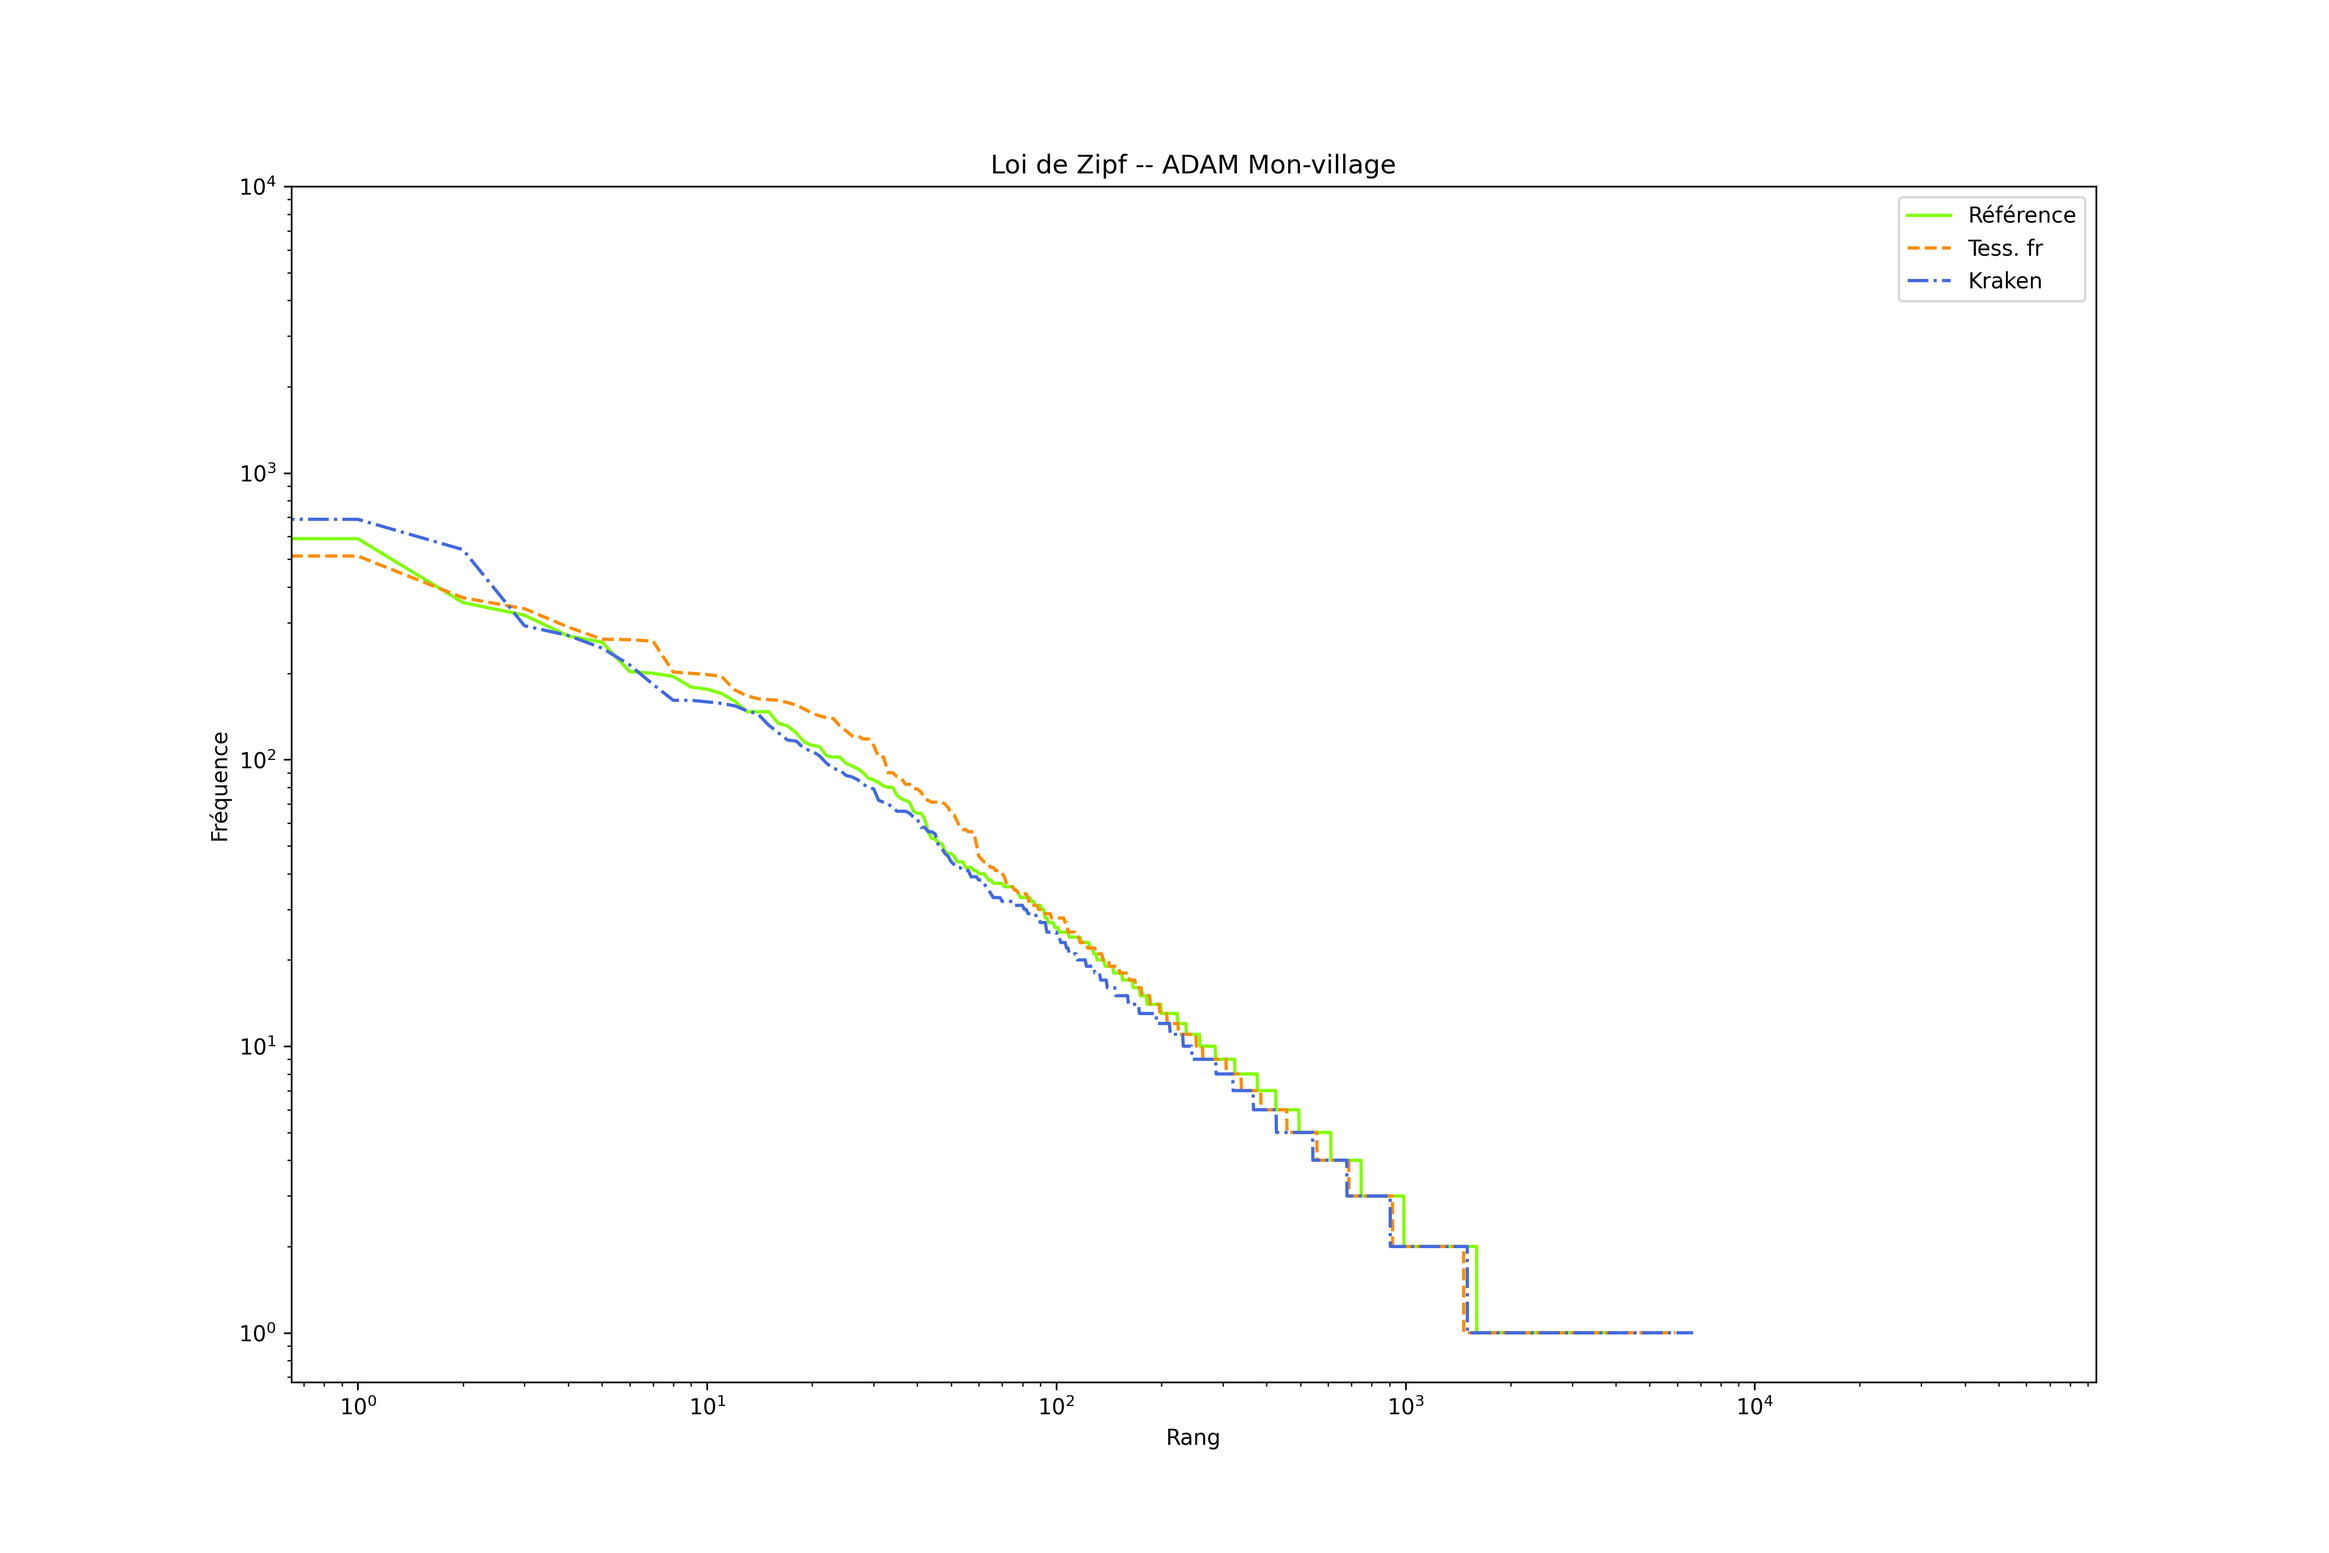
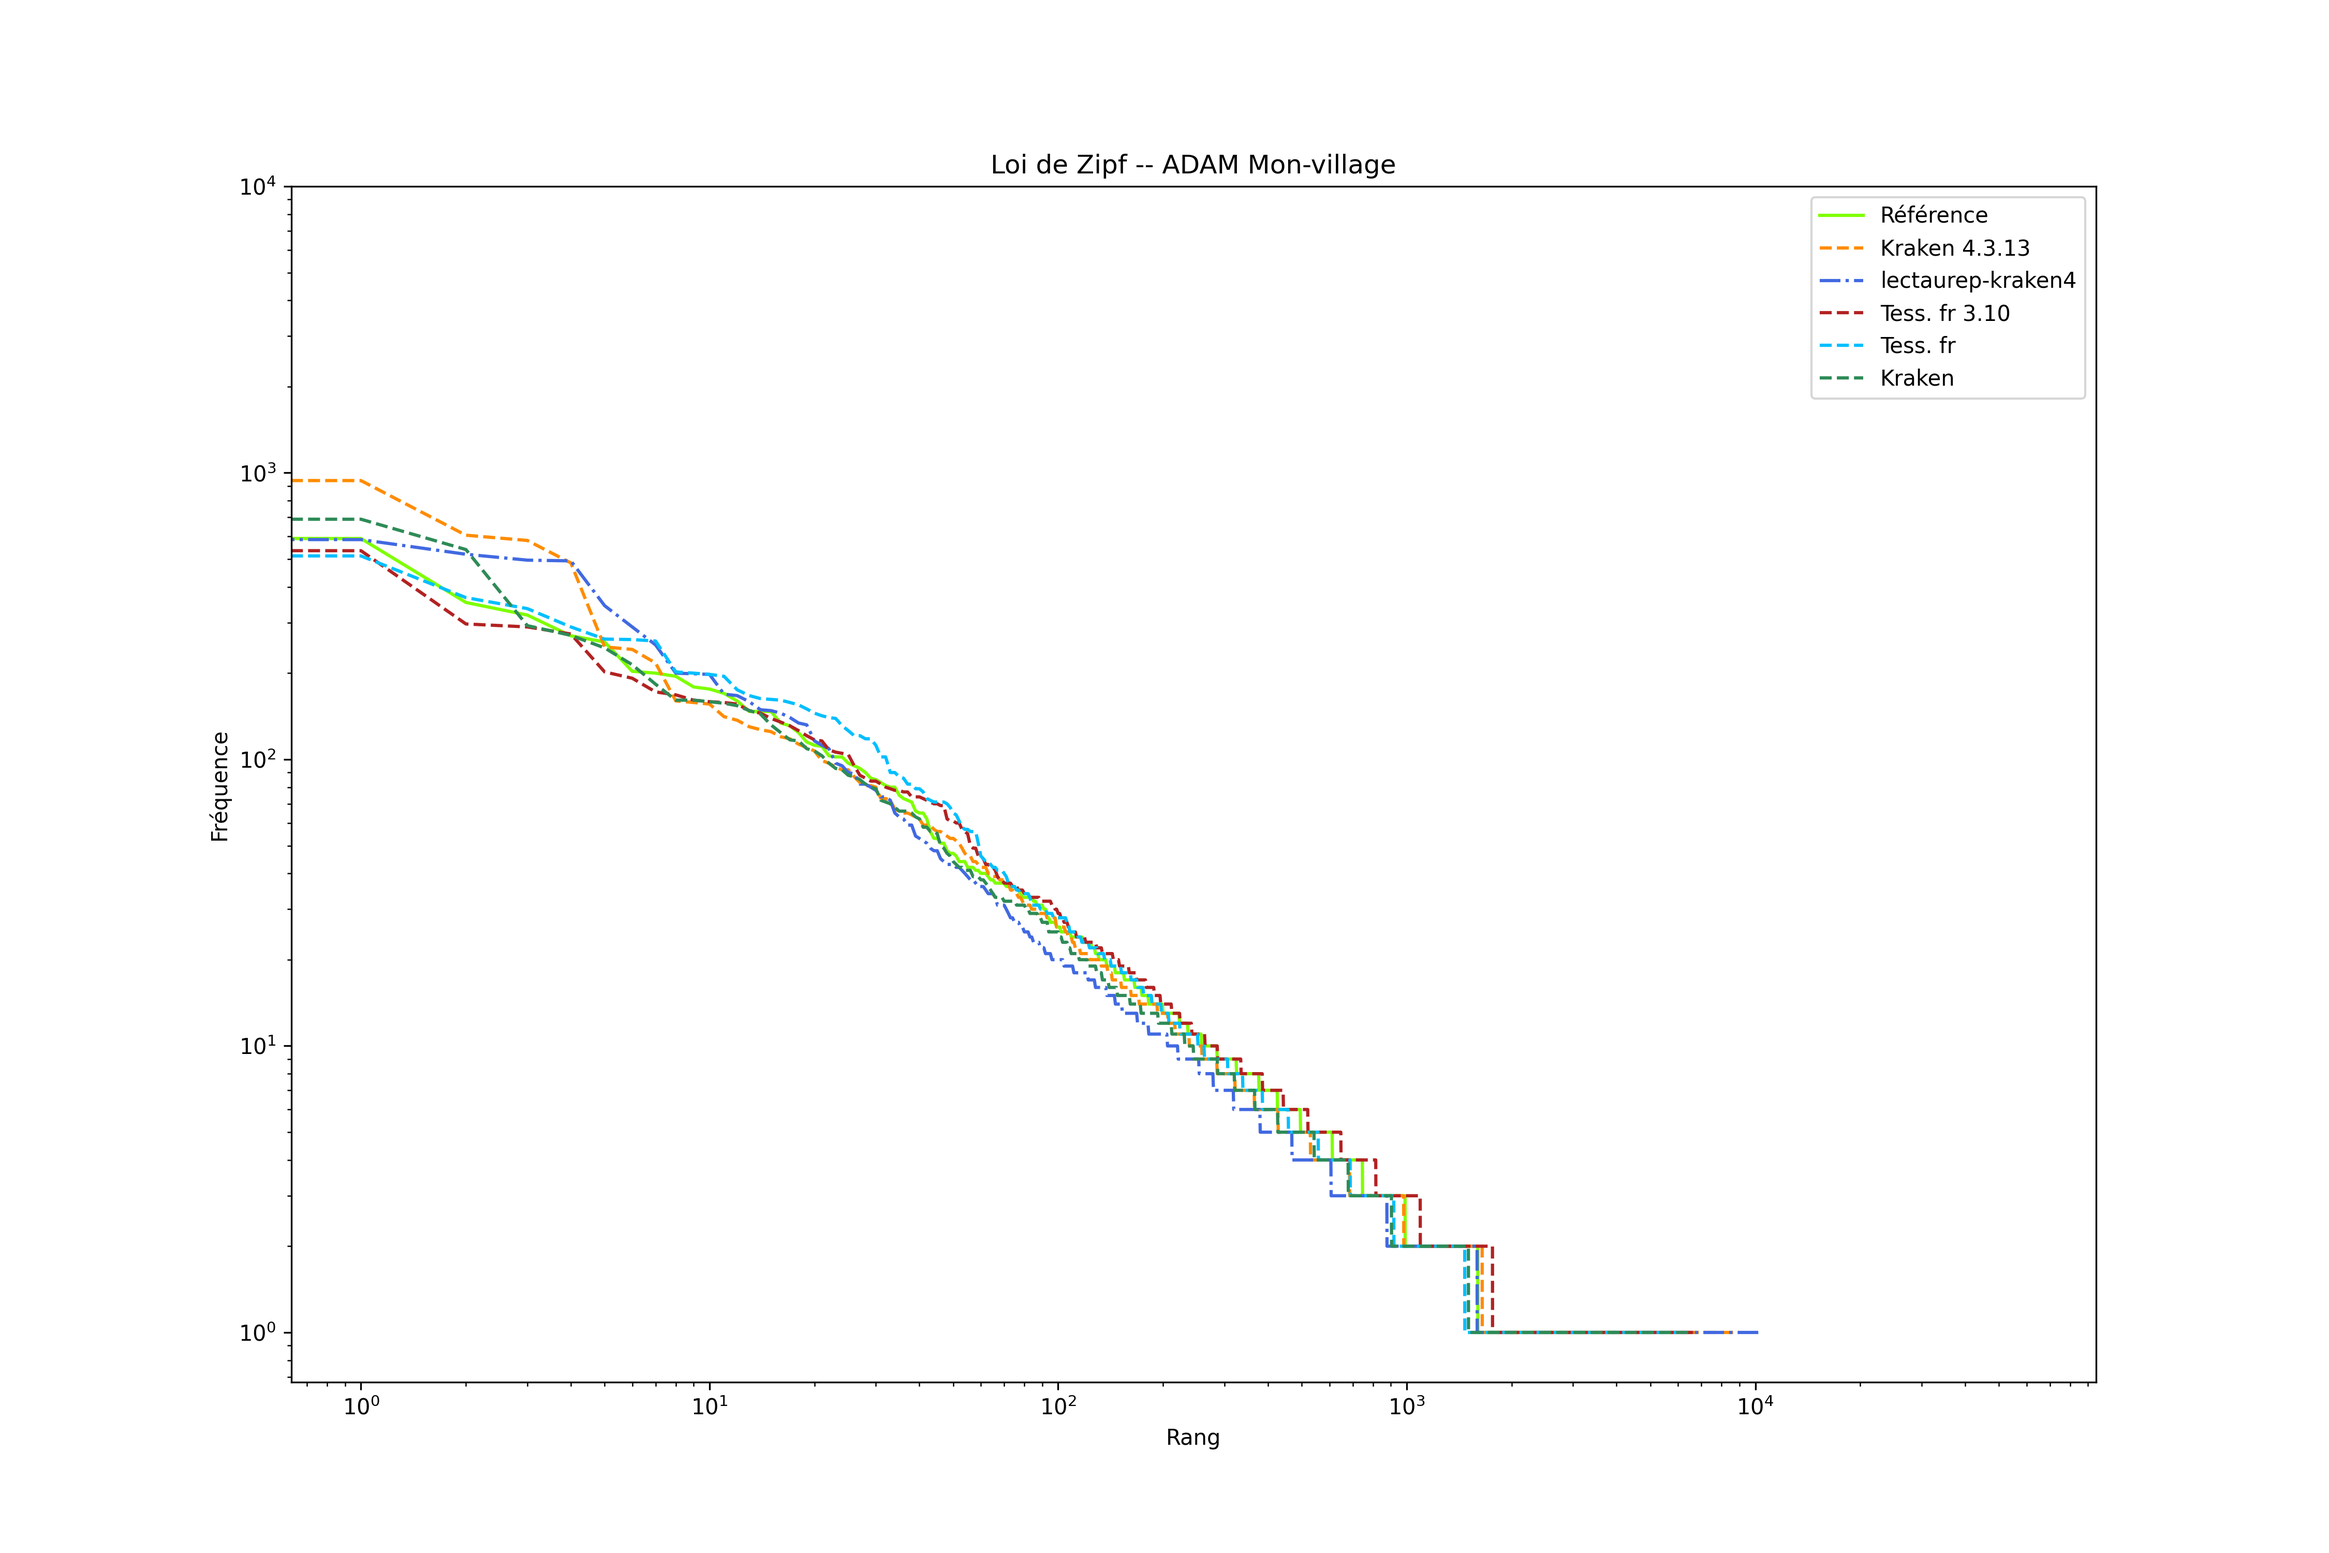
prog ZIPF

diff --git a/prog/ZIPF_3D.py b/prog/ZIPF_3D.py
@@ -1,0 +1,265 @@
+# from nltk.corpus import brown # si besoin dans jupyter pip install nltk (déjà installé sur ma machine)
+from functools import reduce
+import matplotlib.pyplot as pyplot
+# import re # expression régulière
+import json
+import glob
+import spacy
+import re
+import pandas as pd
+from IPython.display import display
+import seaborn as sns
+import scipy.stats as stats
+from nltk.corpus import stopwords
+from renommage import *
+
+
+def lire_fichier(chemin):
+    with open(chemin) as json_data:
+        EN = json.load(json_data)
+
+        return EN
+
+
+def lire_fichier_txt(chemin):
+    f = open(chemin, encoding='utf−8')
+    chaine = f.read()
+    f.close()
+    return chaine
+
+
+def text_2_tok(texte):
+    liste_tok = []
+    nlp = spacy.load("fr_core_news_sm")
+    nlp.max_length = 5000000
+    doc = nlp(texte)
+    for token in doc:
+        liste_tok.append(token.text)
+
+    #        print(token.text)
+
+    return liste_tok
+
+
+def texte_to_dict(texte):
+    texte_dict = {}
+
+    for token in texte:
+        if token in texte_dict:
+            texte_dict[token] += 1
+        else:
+            texte_dict[token] = 1
+
+    return texte_dict
+
+
+def dict_to_list(texte_dict):
+    texte_list = []
+
+    for mot in texte_dict.keys():
+        texte_list.append([texte_dict[mot], mot])
+
+    texte_list.sort(reverse=True)
+    return texte_list
+
+
+def afficher_n(texte_list, n):
+    cumul = 0
+    print("rang\tmot\tfrequence\tfrequence(Zipf)")
+    print("-" * 50)
+    for _ in range(n):
+        cumul += texte_list[_][0]
+        print("{}\t{}\t{}\t\t{:.0f}".format(_ + 1, texte_list[_][1], texte_list[_][0], texte_list[0][0] / (_ + 1)))
+
+    total = reduce(lambda x, y: x + y, [_[0] for _ in texte_list])
+    prop = cumul / total * 100
+
+    print("-" * 50)
+    print("Ces {} mots représentent le {:0.2f}% du corpus".format(n, prop))
+
+
+# def plot_zipf(texte_list, ocr, config_name, liste_ren_ref, log=False):
+#     pyplot.rcParams['figure.figsize'] = [15, 10]
+#
+#     y = [_[0] for _ in texte_list]
+#     y_ = [_[0] for _ in ocr[0]]
+#
+#     pyplot.plot(y, "-", color='chartreuse', label="Référence")
+#     pyplot.plot(y_, "--", color='darkorange', label=config_name[0])
+#     # pyplot.plot(y1, "-.", color='royalblue', label=ocr_name[1])
+#
+#     if log:
+#         pyplot.yscale("log")
+#         pyplot.xscale("log")
+#     #        pyplot.axis([0,10^2,0,10^2])
+#     pyplot.ylim(0, 10000)
+#     pyplot.xlim(0, 95000)
+#
+#     #    pyplot.legend()
+#     #    pyplot.title("Loi de Zipf (Brown Corpus)")
+#     pyplot.xlabel("Rang")
+#     pyplot.ylabel("Fréquence")
+#
+#
+#    # pyplot.show()
+def plot_zipf(log=True):
+    pyplot.rcParams['figure.figsize'] = [15, 10]
+
+    if log:
+        # pyplot.yscale("log")
+        pyplot.xscale("log")
+    #        pyplot.axis([0,10^2,0,10^2])
+    pyplot.ylim(0, 50)
+    pyplot.xlim(0, 100)
+
+    #    pyplot.legend()
+    #    pyplot.title("Loi de Zipf (Brown Corpus)")
+    pyplot.xlabel("Rang")
+    pyplot.ylabel("Fréquence")
+def nom_fichier(chemin_fichier):
+    # NOM_FICHIER POUR LES TXT
+    nom_fichier = chemin_fichier.split("/")
+    nom_fichier = nom_fichier[-1].split(".")
+    nom_fichier = nom_fichier[0]
+    # delete_PP = nom_fichier.split("_")
+    # for i in delete_PP:
+    #     if delete_PP[-1]=="PP":
+    #         nom_fichier="_".join([delete_PP[0],delete_PP[1],"Ref"])
+    return (nom_fichier)
+
+
+def nom_fichier_REN(chemin_fichier):
+    # NOM_FICHIER POUR LES EN
+    nom_fichier = chemin_fichier.split("/")
+    nom_fichier = nom_fichier[6].split(".")
+    delete_txt = nom_fichier[1].split("_")
+    delete_txt = "_".join([delete_txt[1], delete_txt[2]])
+    delete_json = nom_fichier[2].split("-")
+    delete_json = delete_json[1]
+    delete_PP = nom_fichier[0].split("_")
+    nom_fichier = "_".join([nom_fichier[0], delete_txt, delete_json])
+    for i in delete_PP:
+        if delete_PP[-1] == "PP":
+
+            nom_fichier = "_".join([delete_PP[0], delete_PP[1], "Ref", delete_txt, delete_json])
+
+        else:
+            nom_fichier = "_".join([delete_PP[0], delete_PP[1], delete_PP[2], delete_txt, delete_json])
+    return (nom_fichier)
+
+
+def stocker(name_file):
+    #    pyplot.rcParams.update({'font.size': 16})
+    # titre_plt = name_file.split("/")
+    # titre_plt = titre_plt[3]
+    # titre_plt = titre_plt.split("_")
+    # titre_plt = " ".join(titre_plt)
+    # delete_png = titre_plt.split(".")
+    # titre_plt = " ".join([delete_png[0]])
+    # pyplot.legend()
+    # pyplot.title("Loi de Zipf -- %s" % name_file)
+    pyplot.savefig(name_file, dpi=300)
+    pyplot.clf()
+    return name_file
+
+
+def filtre_stop(contenu, language):
+    french_stopwords = set(stopwords.words('french'))
+    filtre_stopfr = lambda text: [token for token in text if token.lower() not in french_stopwords]
+    return filtre_stopfr
+
+# def quantile_plot(x, **kwargs):
+#     quantiles, xr = stats.probplot(x, fit=False)
+#     pyplot.scatter(xr, quantiles, **kwargs)
+def qqplot(x, y, **kwargs):
+    # _, xr = stats.probplot(x, fit=False)
+    # _, yr = stats.probplot(y, fit=False)
+    pyplot.plot(x, y, **kwargs)
+
+# MAIN
+path_corpora = "../small-ELTeC-fra-2021-2024_REN/"
+# dans "corpora" un subcorpus = toutes les versions 'un texte'
+
+
+for subcorpus in sorted(glob.glob("%sAIMARD_TRAPPEURS/" % path_corpora)):
+    # print(subcorpus)
+    data_list = []
+    liste_version = []
+    lst_nom_rens = []
+    liste_data = []
+    liste_freq = []
+    liste_indice = []
+    # k=0
+#
+#     ## _______________ZIPF sur EN.json REF et OCRs
+    for subpath in sorted(glob.glob("%s*REF/NER/*liste.json" % subcorpus)):
+        k = 0
+        print("subpath", subpath)
+        nomfichier_ref = subpath.split("/")[-1]
+        # print(nomfichier_ref)
+        nom_ren_ref = (" ").join(nomfichier_ref.split("_")[-1].split("-")[:2])
+        entite = lire_fichier(subpath)
+        # print(entite)
+        texte_dict = texte_to_dict(entite)
+        # print(texte_dict)
+        text_liste = dict_to_list(texte_dict)
+        for i in text_liste :
+            # print("---------",i)
+            liste_data.append(i[-1])
+            liste_freq.append(i[0])
+            liste_version.append("Référence")
+            lst_nom_rens.append(nom_ren_ref)
+            liste_indice.append(k)
+            k+=1
+    #
+    for subpath in sorted(glob.glob("%s*OCR/*/NER/*liste.json" % subcorpus)):
+        k = 0
+        print("subpath", subpath)
+        entite_ocr = lire_fichier(subpath)
+        nomfichier = subpath.split("/")[-1]
+        # print(nomfichier)
+        output_name = "_".join(nomfichier.split(".")[0].split("_")[:2])
+        print(output_name)
+        nom_ocr = nomfichier.split("_")[2].split(".")[0]
+        nom_ocr = nommage(nom_ocr)
+        nom_ren = (" ").join(nomfichier.split("_")[-1].split("-")[:2])
+        # print(nom_ren)
+        texte_dict_ocr = texte_to_dict(entite_ocr)
+        # print(texte_dict_ocr)
+        texte_list_ocr = dict_to_list(texte_dict_ocr)
+        # print(texte_list_ocr)
+        for i in texte_list_ocr :
+            # print("---------",i)
+            liste_data.append(i[-1])
+            liste_freq.append(i[0])
+            liste_version.append(nom_ocr)
+            lst_nom_rens.append(nom_ren)
+            liste_indice.append(k)
+            k+=1
+        # print(liste_freq)
+        # print(liste_indice)
+        # print(len(lst_nom_rens))
+        # print(len(liste_version))
+        # print(len(liste_freq))
+        # print(len(liste_data))
+        # print(len(liste_indice))
+        tableau = {}
+        tableau["OCR"] = liste_version
+        tableau["REN"] = lst_nom_rens
+        tableau["Data"] = liste_data
+        tableau["frequence"] = liste_freq
+        tableau["rang"] = liste_indice
+        data_tab = pd.DataFrame(tableau)
+        # print(data_tab)
+        # display(data_tab)
+        g = sns.FacetGrid(data_tab, hue="REN", col="OCR", height=4)
+        g.map(qqplot, "rang","frequence")
+
+        plot_zipf()
+        g.add_legend()
+#
+# #
+# #     # graph = plot_zipf(texte_list_ref, liste_list_ocr, lst_nom_config, lst_nom_ren_ref, log=True)
+        stocker("../ZIPF_PLT/%s.png" % output_name)
+# #
+#     ## _______________ZIPF sur EN.json REF et OCRs

diff --git a/prog/ZIPF_EN_SPACY.py b/prog/ZIPF_EN_SPACY.py
@@ -19,7 +19,7 @@ import re
 from nltk.corpus import stopwords
 from renommage import *
 
-def lire_fichier (chemin):
+def lire_fichier(chemin):
     with open(chemin) as json_data: 
         EN =json.load(json_data)
         
@@ -34,6 +34,7 @@ def lire_fichier_txt (chemin):
 def text_2_tok(texte):
     liste_tok=[]
     nlp = spacy.load("fr_core_news_sm")
+    nlp.max_length = 5000000
     doc = nlp(texte)
     for token in doc:
         liste_tok.append(token.text)
@@ -87,18 +88,16 @@ def plot_zipf(texte_list, ocr,ocr_name, log=False):
     y = [_[0] for _ in texte_list]
     y_ = [_[0] for _ in ocr[0]]
     y1 = [_[0] for _ in ocr[1]]
-    y2 = [_[0] for _ in ocr[2]]
-    y3 = [_[0] for _ in ocr[3]]
-    y4 = [_[0] for _ in ocr[4]]
-    # for _ in range(len(texte_list)):
-    #     y_.append(int(texte_list[0][0]/(_+1)))
+    # y2 = [_[0] for _ in ocr[2]]
+    # y3 = [_[0] for _ in ocr[3]]
+    # y4 = [_[0] for _ in ocr[4]]
 
     pyplot.plot(y, "-", color = 'chartreuse', label="Référence")
     pyplot.plot(y_, "--", color = 'darkorange', label=ocr_name[0])
     pyplot.plot(y1, "-.", color = 'royalblue', label=ocr_name[1])
-    pyplot.plot(y2, "--", color='firebrick', label=ocr_name[2])
-    pyplot.plot(y3, "--", color='deepskyblue', label=ocr_name[3])
-    pyplot.plot(y4, "--", color='seagreen', label=ocr_name[4])
+    # pyplot.plot(y2, "--", color='firebrick', label=ocr_name[2])
+    # pyplot.plot(y3, "--", color='deepskyblue', label=ocr_name[3])
+    # pyplot.plot(y4, "--", color='seagreen', label=ocr_name[4])
     # pyplot.plot(y_, "--", label="Approximation (Zipf)")
     
     if log:
@@ -167,14 +166,14 @@ def filtre_stop(contenu, language):
     return filtre_stopfr
 
 #MAIN
-path_corpora = "../small-ELTeC-fra-2021-2024_REN/"
+path_corpora = "../small-TGB-RevueTAL_REN/"
 # dans "corpora" un subcorpus = toutes les versions 'un texte'
 texte_list_ref=[]
 liste_list_ocr=[]
 liste_noms_ocrs=[]
-for subcorpus in sorted(glob.glob("%sDAUDET/"%path_corpora)):
+for subcorpus in sorted(glob.glob("%s*/"%path_corpora)):
     # print(subcorpus)
-
+## _______________ZIPF sur .txt REF et OCRs
     for subpath in sorted(glob.glob("%s*REF/*.txt" % subcorpus)):
         print("subpath",subpath)
         texte = lire_fichier_txt(subpath)
@@ -184,27 +183,27 @@ for subcorpus in sorted(glob.glob("%sDAUDET/"%path_corpora)):
         texte_dict = texte_to_dict(texte_tok)
         # print(texte_dict)
         texte_list_ref = dict_to_list(texte_dict)
-        # print(texte_list_ref)
+        print(texte_list_ref)
 
-    for subpath in sorted(glob.glob("%s*OCR/*/*.txt"%subcorpus)):
-        print("subpath",subpath)
-        texte_ocr = lire_fichier_txt(subpath)
-        nomfichier = nom_fichier(subpath)
-        output_name= "_".join(nomfichier.split("_")[:2])
-        nom_ocr = nomfichier.split("_")[-1]
-        nom_ocr=nommage(nom_ocr)
-        liste_noms_ocrs.append(nom_ocr)
-
-        texte_ocr = re.sub("\!|\'|\?|\n|\.|\,|\-|\_|—|" "|' '|:|de|le|la|les|un|une|des|a|à", "", texte_ocr)
-        texte_tok_ocr = text_2_tok(texte_ocr)
-        # print(texte_tok_ocr)
-        texte_dict_ocr = texte_to_dict(texte_tok_ocr)
-        # print(texte_dict_ocr)
-        texte_list_ocr = dict_to_list(texte_dict_ocr)
-        # print(texte_list_ocr)
-        liste_list_ocr.append(texte_list_ocr)
-        # print(texte_list_ref)
-
-    graph=plot_zipf(texte_list_ref, liste_list_ocr, liste_noms_ocrs, log=True)
-    stocker("../small-ELTeC-fra_REN/ZIPF_PLT/%s.png"%output_name)
-
+    # for subpath in sorted(glob.glob("%s*OCR/*/*.txt"%subcorpus)):
+    #     print("subpath",subpath)
+    #     texte_ocr = lire_fichier_txt(subpath)
+    #     nomfichier = nom_fichier(subpath)
+    #     output_name= "_".join(nomfichier.split("_")[:2])
+    #     nom_ocr = nomfichier.split("_")[-1]
+    #     nom_ocr=nommage(nom_ocr)
+    #     liste_noms_ocrs.append(nom_ocr)
+    #
+    #     texte_ocr = re.sub("\!|\'|\?|\n|\.|\,|\-|\_|—|" "|' '|:|de|le|la|les|un|une|des|a|à", "", texte_ocr)
+    #     texte_tok_ocr = text_2_tok(texte_ocr)
+    #     # print(texte_tok_ocr)
+    #     texte_dict_ocr = texte_to_dict(texte_tok_ocr)
+    #     # print(texte_dict_ocr)
+    #     texte_list_ocr = dict_to_list(texte_dict_ocr)
+    #     # print(texte_list_ocr)
+    #     liste_list_ocr.append(texte_list_ocr)
+    #     # print(texte_list_ref)
+    #
+    # graph=plot_zipf(texte_list_ref, liste_list_ocr, liste_noms_ocrs, log=True)
+    # stocker("../small-ELTeC-fra_REN/ZIPF_PLT/%s.png"%output_name)
+## _______________ZIPF sur .txt REF et OCRs
